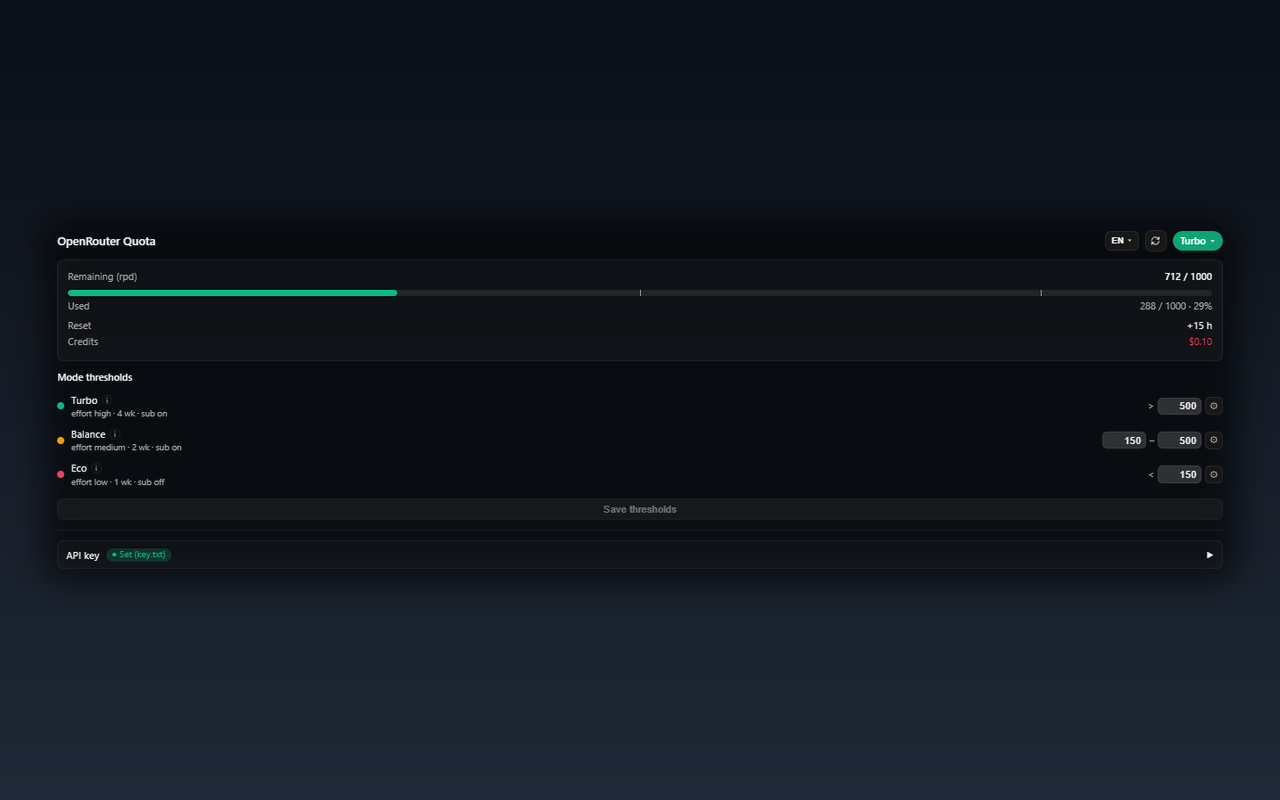
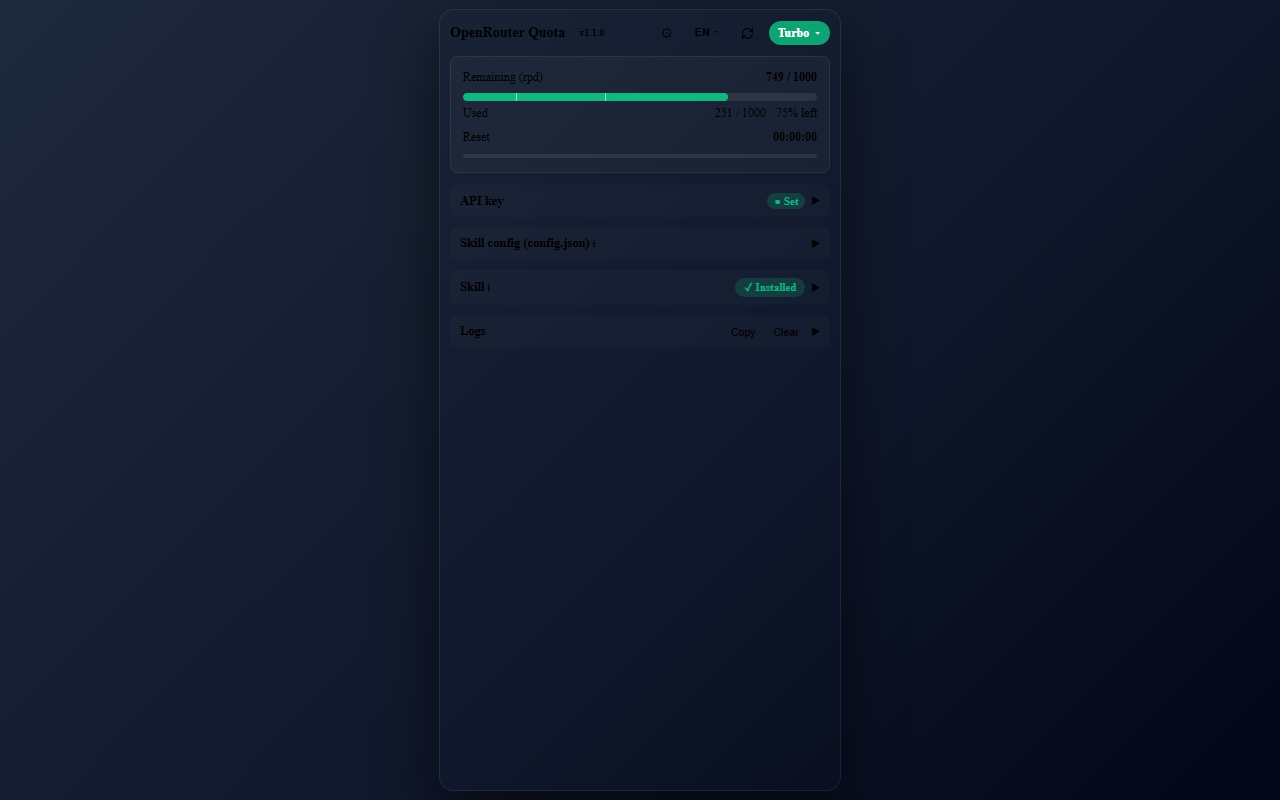
docs: v1.1.0 changelog (EN) + refreshed 1280x800 screenshots (new UI)

diff --git a/CHANGELOG.md b/CHANGELOG.md
@@ -1,0 +1,49 @@
+# Changelog
+
+All notable changes to the OpenRouter Quota Panel are documented here.
+The format is based on [Keep a Changelog](https://keepachangelog.com/en/1.1.0/),
+and this project adheres to [Semantic Versioning](https://semver.org/spec/v2.0.0.html).
+
+## [1.1.0] - 2026-11-27
+
+A large UX and capability release.
+
+### Added
+- Settings modal (gear in the header) for mode thresholds, replacing the old inline section.
+- Collapsible sections (API key, Skill config, Skill install, Logs) with click-to-toggle headers.
+- API key reveal protected by a local PIN (only a SHA-256 hash is stored); the key is shown read-only with copy and auto-hides after 30 s or on section collapse.
+- Encrypted key storage at rest (AES-256-GCM, machine-local derived key); `key.txt` is now only an export for the bash skill.
+- Logs: per-level coloring (error / warn / info), Copy and Clear buttons, and auto-scroll to the newest line.
+- Instant styled tooltips for sections, inputs and info icons (replacing the slow native `title`).
+- Skill install now targets **all** bots (`~/.orca/bots/*/skills`) plus the OpenCode global mirror, exporting `key.txt` to each; uninstall removes from all.
+- A real Orca bot-automation ("Quota review") created from `cronMinutes` via the Orca CLI, surviving plugin restarts.
+- Collapsible "Skill config" with a compact 2×2 numeric grid and per-field hints (RU labels included).
+- Version badge in the header (left, next to the title).
+- `CHANGELOG.md` (English) and `CHANGELOG.ru.md` (Russian).
+
+### Changed
+- The progress bar now shows the **remaining** share of the quota (not the used share); threshold ticks are on the remaining scale.
+- Save buttons (thresholds, skill config) are highlighted only when there are unsaved changes.
+- Removed the duplicated per-mode effort/worker settings; those live only in the skill config. Adjacent threshold bounds stay linked without gaps.
+- Plugin version bumped to 1.1.0.
+
+### Fixed
+- `setSkillConfig` no longer fails with ENOENT when the skill folder is missing (it creates it first).
+- "Install skill" / "Uninstall skill" buttons now appear and refresh correctly.
+- Reveal-key and copy no longer use `window.prompt` / `alert` / the blocked Clipboard API (inline forms + `execCommand` fallback).
+- The work-window placeholder no longer shows `undefined`.
+
+## [1.0.0] - 2026-11-25
+
+First public release.
+
+### Added
+- OpenRouter free-tier daily request (RPD) monitor with a live countdown to the 00:00 UTC reset.
+- Auto / Turbo / Balance / Eco modes with editable thresholds.
+- Editable per-mode metadata (effort / workers / subagents) as hints for agents.
+- Self-contained API key (stored by the plugin, with a `key.txt` fallback).
+- Interface in English, Russian and Chinese.
+- Public documentation and screenshots; MIT license.
+
+[1.1.0]: https://github.com/sleet1k/orca-quota-panel/releases/tag/v1.1.0
+[1.0.0]: https://github.com/sleet1k/orca-quota-panel/releases/tag/v1.0.0
